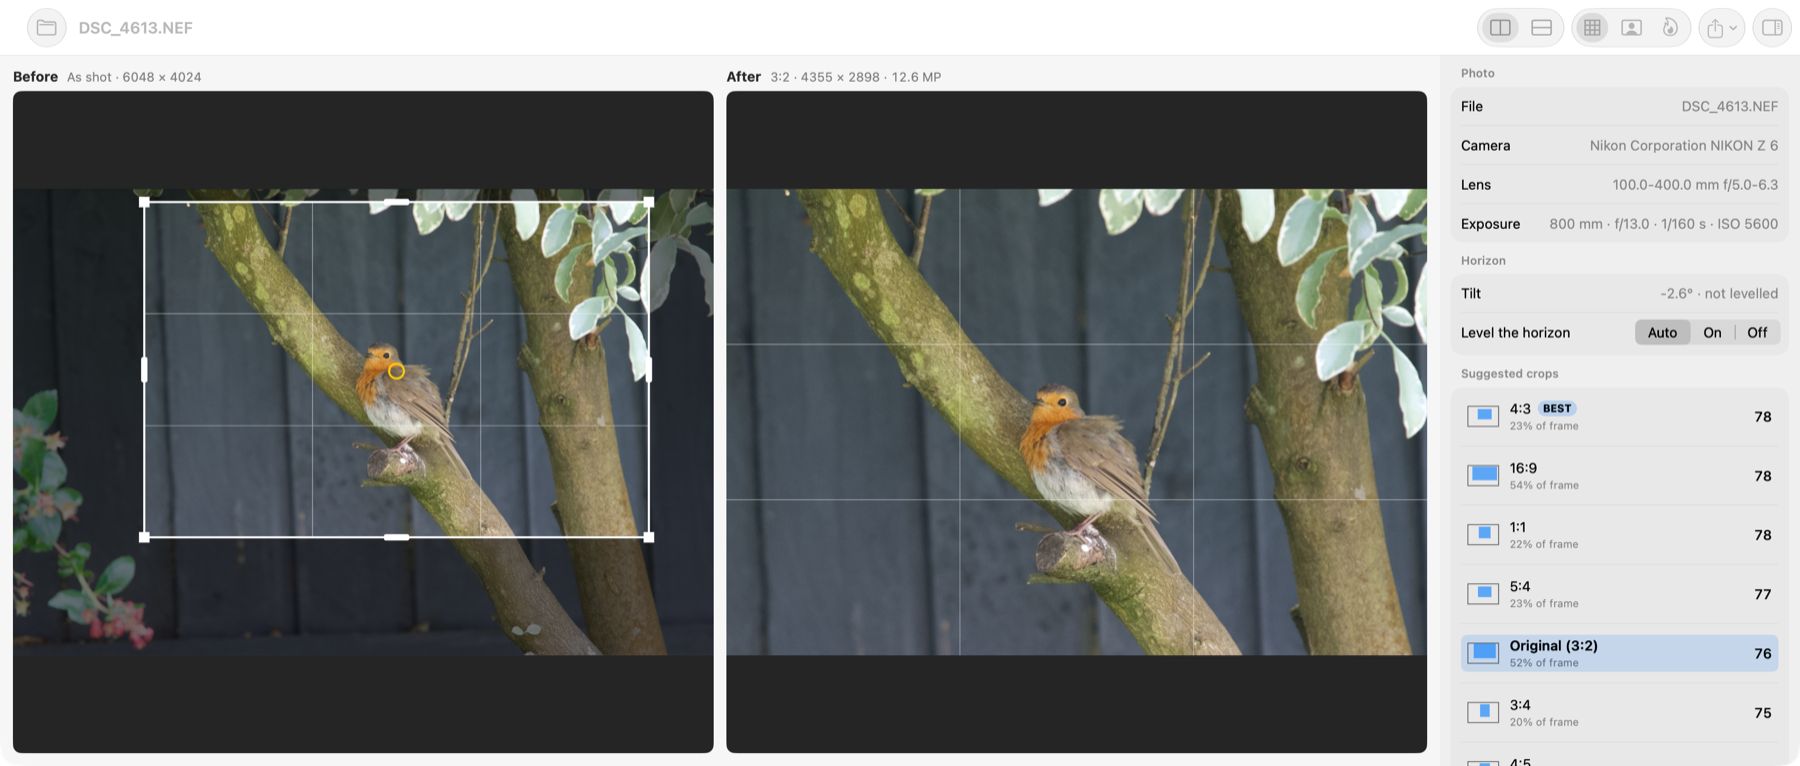
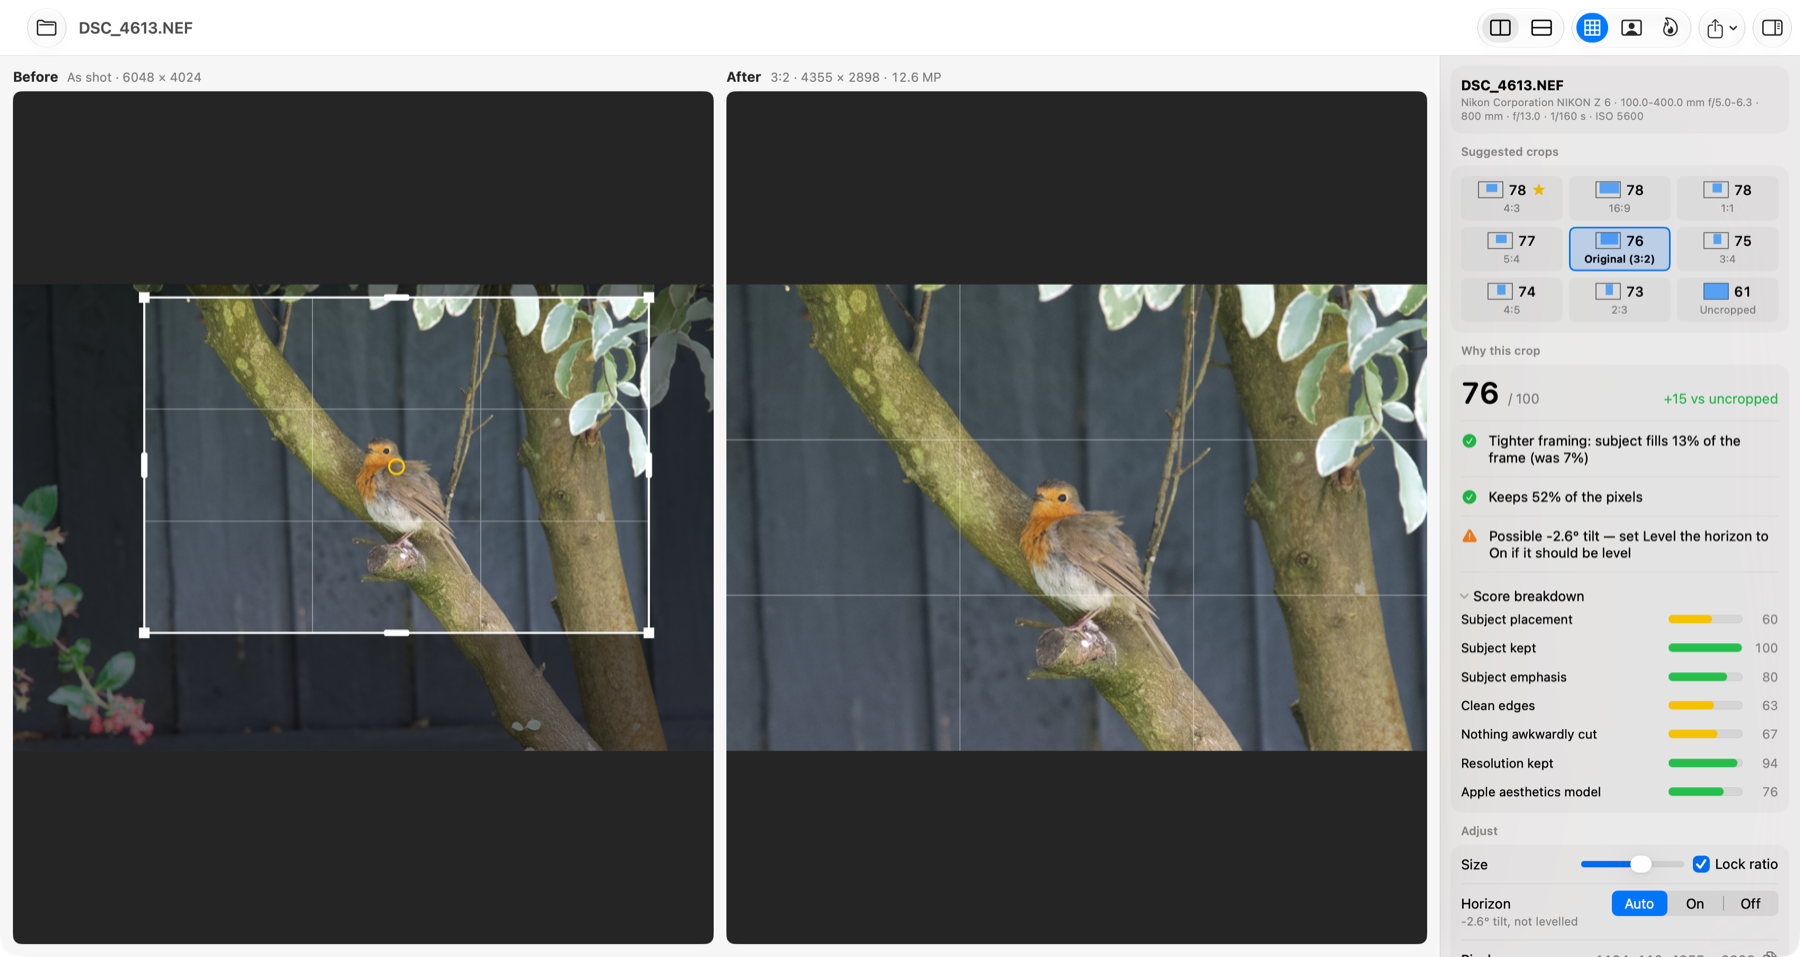
Compact the advice sidebar so it fits on screen
Suggested crops become a 3x3 grid of tiles, the photo details a two-line
header, and the horizon and pixel box single rows in Adjust. Help text moves
into tooltips and Export shares a row with Update PhotoLab Crop. The score
breakdown is one line per guideline and can be collapsed. Screenshots are
retaken, and --snapshot gains --no-breakdown.

diff --git a/Sources/CropAdvisor/InspectorView.swift b/Sources/CropAdvisor/InspectorView.swift
@@ -7,29 +7,24 @@ struct InspectorView: View {
         @Bindable var model = model
         if let result = model.result {
             Form {
-                Section("Photo") {
-                    LabeledContent("File", value: result.url.lastPathComponent)
-                    if let camera = result.metadata.camera { LabeledContent("Camera", value: camera) }
-                    if let lens = result.metadata.lens { LabeledContent("Lens", value: lens) }
-                    if let exposure = result.metadata.exposure { LabeledContent("Exposure", value: exposure) }
-                }
-
-                Section("Horizon") {
-                    horizonRow(result.scene)
-                    Picker("Level the horizon", selection: $model.level) {
-                        ForEach(LevelMode.allCases, id: \.self) { Text($0.rawValue).tag($0) }
+                Section {
+                    VStack(alignment: .leading, spacing: 2) {
+                        Text(result.url.lastPathComponent).font(.headline)
+                        let details = [result.metadata.camera, result.metadata.lens, result.metadata.exposure].compactMap { $0 }
+                        if !details.isEmpty {
+                            Text(details.joined(separator: " · ")).font(.caption).foregroundStyle(.secondary)
+                        }
                     }
-                    .pickerStyle(.segmented)
-                    .disabled(!canStraighten(result.scene))
                 }
 
                 Section("Suggested crops") {
-                    ForEach(result.suggestions) { suggestion in
-                        SuggestionRow(suggestion: suggestion,
-                                      isBest: suggestion.id == result.suggestions.first?.id,
-                                      isSelected: suggestion.id == model.selectedID)
-                            .contentShape(Rectangle())
-                            .onTapGesture { model.select(suggestion) }
+                    LazyVGrid(columns: Array(repeating: GridItem(.flexible(), spacing: 6), count: 3), spacing: 6) {
+                        ForEach(result.suggestions) { suggestion in
+                            SuggestionTile(suggestion: suggestion,
+                                           isBest: suggestion.id == result.suggestions.first?.id,
+                                           isSelected: suggestion.id == model.selectedID)
+                                .onTapGesture { model.select(suggestion) }
+                        }
                     }
                 }
 
@@ -46,53 +41,66 @@ struct InspectorView: View {
                                 Text(Image(systemName: "exclamationmark.triangle.fill")).foregroundStyle(.orange)
                             }
                         }
-                    }
-
-                    if let px = model.cropPixelRect {
-                        Section("Crop box (pixels)") {
-                            CropBoxRows(rect: px, rotation: result.scene.appliedRotation)
-                        }
-                    }
-
-                    Section("Score breakdown") {
-                        ForEach(Criterion.allCases) { criterion in
-                            if let value = score.criteria[criterion] {
-                                CriterionBar(name: criterion.rawValue, value: value)
+                        DisclosureGroup("Score breakdown", isExpanded: $model.showBreakdown) {
+                            ForEach(Criterion.allCases) { criterion in
+                                if let value = score.criteria[criterion] {
+                                    CriterionBar(name: criterion.rawValue, value: value)
+                                }
                             }
-                        }
-                        if let a = score.aesthetic {
-                            CriterionBar(name: "Apple aesthetics model", value: a)
+                            if let a = score.aesthetic {
+                                CriterionBar(name: "Apple aesthetics model", value: a)
+                            }
                         }
                     }
                 }
 
                 Section("Adjust") {
-                    LabeledContent("Crop size") {
+                    HStack {
+                        Text("Size")
                         Slider(value: Binding(get: { model.cropScale }, set: { model.setCropScale($0) }),
                                in: 0.3...1) { editing in
                             if !editing { model.refreshAesthetic() }
                         }
+                        Toggle("Lock ratio", isOn: $model.lockAspect).toggleStyle(.checkbox)
                     }
-                    Toggle("Lock aspect ratio", isOn: $model.lockAspect)
-                    Text("In the Before view, drag inside the crop to move it, or drag a corner or edge to resize it (hold ⇧ to toggle the aspect lock). Scores update live.")
-                        .font(.caption).foregroundStyle(.secondary)
+                    .help("In the Before view, drag inside the crop to move it, or drag a corner or edge to resize it (hold ⇧ to toggle the aspect lock). Scores update live.")
+                    LabeledContent {
+                        Picker("Level the horizon", selection: $model.level) {
+                            ForEach(LevelMode.allCases, id: \.self) { Text($0.rawValue).tag($0) }
+                        }
+                        .pickerStyle(.segmented)
+                        .labelsHidden()
+                        .fixedSize()
+                        .disabled(!canStraighten(result.scene))
+                    } label: {
+                        Text("Horizon")
+                        Text(horizonStatus(result.scene))
+                    }
+                    .help("Level the horizon: Auto levels scenes that look like landscapes")
+                    if let px = model.cropPixelRect {
+                        CropBoxRow(rect: px, rotation: result.scene.appliedRotation)
+                    }
                     if model.isAdjusted {
                         Button("Reset to Suggestion") { model.resetToSuggestion() }
                     }
                 }
 
                 Section {
-                    Menu("Export Cropped Photo") {
-                        ForEach(ExportFormat.allCases, id: \.self) { format in
-                            Button(format.rawValue) { model.export(format) }
+                    HStack {
+                        Menu("Export") {
+                            ForEach(ExportFormat.allCases, id: \.self) { format in
+                                Button(format.rawValue) { model.export(format) }
+                            }
+                        }
+                        .fixedSize()
+                        .help("Re-develops the RAW at full resolution and keeps the camera metadata. The NEF itself is never modified.")
+                        Spacer()
+                        if let sidecar = model.sidecar {
+                            PhotoLabNotes(sidecar: sidecar, result: result)
+                            Button("Update PhotoLab Crop") { model.updateSidecar() }
+                                .help("Writes this crop\(result.scene.appliedRotation != 0 ? " and the horizon levelling" : "") into \(sidecar.url.lastPathComponent), replacing PhotoLab’s crop and horizon settings. The original sidecar is kept as a .bak file.")
                         }
                     }
-                    Text("Re-develops the RAW at full resolution and keeps the camera metadata. The NEF itself is never modified.")
-                        .font(.caption).foregroundStyle(.secondary)
-                }
-
-                if let sidecar = model.sidecar {
-                    PhotoLabSection(sidecar: sidecar, result: result)
                 }
             }
             .formStyle(.grouped)
@@ -107,26 +115,18 @@ struct InspectorView: View {
         return Pipeline.straightenRange.contains(abs(Double(a)) * 180 / .pi)
     }
 
-    @ViewBuilder
-    private func horizonRow(_ scene: SceneAnalysis) -> some View {
-        if let a = scene.detectedHorizonAngle {
-            let degrees = Double(a) * 180 / .pi
-            if abs(degrees) < Pipeline.straightenRange.lowerBound {
-                LabeledContent("Tilt", value: "Level")
-            } else if abs(degrees) > Pipeline.straightenRange.upperBound {
-                LabeledContent("Tilt", value: String(format: "%.1f° (looks intentional)", degrees))
-            } else {
-                LabeledContent("Tilt", value: String(format: scene.appliedRotation != 0 ? "%.1f° · levelled" : "%.1f° · not levelled", degrees))
-            }
-        } else {
-            LabeledContent("Tilt", value: "No horizon found")
-        }
+    private func horizonStatus(_ scene: SceneAnalysis) -> String {
+        guard let a = scene.detectedHorizonAngle else { return "No horizon found" }
+        let degrees = Double(a) * 180 / .pi
+        if abs(degrees) < Pipeline.straightenRange.lowerBound { return "Level" }
+        if abs(degrees) > Pipeline.straightenRange.upperBound { return String(format: "%.1f° tilt, looks intentional", degrees) }
+        return String(format: scene.appliedRotation != 0 ? "%.1f° tilt, levelled" : "%.1f° tilt, not levelled", degrees)
     }
 
     private func scoreHeader(_ score: CropScore) -> some View {
         HStack(alignment: .firstTextBaseline) {
             Text("\(Int((score.total * 100).rounded()))")
-                .font(.system(size: 34, weight: .semibold, design: .rounded))
+                .font(.system(size: 28, weight: .semibold, design: .rounded))
                 .monospacedDigit()
             Text("/ 100").foregroundStyle(.secondary)
             Spacer()
@@ -139,34 +139,44 @@ struct InspectorView: View {
     }
 }
 
-private struct SuggestionRow: View {
+/// One suggested crop in the grid: its shape, score and name, with a star on the best.
+private struct SuggestionTile: View {
     let suggestion: CropSuggestion
     let isBest: Bool
     let isSelected: Bool
 
     var body: some View {
-        HStack(spacing: 10) {
-            AspectGlyph(rect: suggestion.rect)
-            VStack(alignment: .leading, spacing: 2) {
-                HStack(spacing: 6) {
-                    Text(suggestion.aspectLabel).fontWeight(isSelected ? .semibold : .regular)
-                    if isBest {
-                        Text(suggestion.isUncropped ? "ALREADY STRONG" : "BEST")
-                            .font(.caption2.weight(.bold))
-                            .padding(.horizontal, 5).padding(.vertical, 1)
-                            .background(Color.accentColor.opacity(0.2), in: Capsule())
-                    }
+        VStack(spacing: 3) {
+            HStack(spacing: 5) {
+                AspectGlyph(rect: suggestion.rect)
+                Text("\(Int((suggestion.score.total * 100).rounded()))")
+                    .font(.body.monospacedDigit().weight(.medium))
+                if isBest {
+                    Text(Image(systemName: "star.fill")).font(.caption2).foregroundStyle(.yellow)
                 }
-                Text(String(format: "%.0f%% of frame", suggestion.rect.area * 100))
-                    .font(.caption).foregroundStyle(.secondary)
             }
-            Spacer()
-            Text("\(Int((suggestion.score.total * 100).rounded()))")
-                .font(.body.monospacedDigit().weight(.medium))
+            Text(suggestion.aspectLabel)
+                .font(.caption)
+                .fontWeight(isSelected ? .semibold : .regular)
+                .foregroundStyle(isSelected ? .primary : .secondary)
+                .lineLimit(1)
+                .minimumScaleFactor(0.8)
         }
-        .padding(.vertical, 2)
-        .padding(.horizontal, 6)
-        .background(isSelected ? Color.accentColor.opacity(0.15) : .clear, in: RoundedRectangle(cornerRadius: 6))
+        .frame(maxWidth: .infinity)
+        .padding(.vertical, 5)
+        .background(isSelected ? Color.accentColor.opacity(0.18) : Color.primary.opacity(0.04),
+                    in: RoundedRectangle(cornerRadius: 6))
+        .overlay {
+            if isSelected { RoundedRectangle(cornerRadius: 6).strokeBorder(Color.accentColor, lineWidth: 1.5) }
+        }
+        .contentShape(Rectangle())
+        .help(help)
+    }
+
+    private var help: String {
+        var text = String(format: "%@ · %.0f%% of frame", suggestion.aspectLabel, suggestion.rect.area * 100)
+        if isBest { text += suggestion.isUncropped ? " · Already strong uncropped" : " · Best" }
+        return text
     }
 }
 
@@ -182,7 +192,7 @@ private struct AspectGlyph: View {
                            width: rect.width * frame.width, height: rect.height * frame.height)
             ctx.fill(Path(r), with: .color(.accentColor.opacity(0.6)))
         }
-        .frame(width: 30, height: 20)
+        .frame(width: 24, height: 16)
     }
 }
 
@@ -191,34 +201,30 @@ private struct CriterionBar: View {
     let value: Double
 
     var body: some View {
-        VStack(alignment: .leading, spacing: 3) {
-            HStack {
-                Text(name).font(.callout)
-                Spacer()
-                Text("\(Int((value * 100).rounded()))").font(.callout.monospacedDigit()).foregroundStyle(.secondary)
-            }
+        HStack(spacing: 8) {
+            Text(name).font(.callout)
+            Spacer()
             ProgressView(value: value)
+                .frame(width: 70)
                 .tint(value > 0.7 ? .green : (value > 0.4 ? .yellow : .orange))
+            Text("\(Int((value * 100).rounded()))")
+                .font(.callout.monospacedDigit()).foregroundStyle(.secondary)
+                .frame(width: 26, alignment: .trailing)
         }
     }
 }
 
-/// Writes the crop into the photo's DxO PhotoLab sidecar.
-private struct PhotoLabSection: View {
-    @Environment(AppModel.self) private var model
+/// Caveats about writing the crop into the photo's DxO PhotoLab sidecar, as a warning icon
+/// whose tooltip lists them.
+private struct PhotoLabNotes: View {
     let sidecar: DxOSidecar
     let result: AnalysisResult
 
     var body: some View {
-        Section("DxO PhotoLab") {
-            Button("Update PhotoLab Crop") { model.updateSidecar() }
-            Text("Writes this crop\(result.scene.appliedRotation != 0 ? " and the horizon levelling" : "") into \(sidecar.url.lastPathComponent), replacing PhotoLab’s crop and horizon settings. The original sidecar is kept as a .bak file.")
-                .font(.caption).foregroundStyle(.secondary)
-            ForEach(notes, id: \.self) { note in
-                Label { Text(note).font(.caption) } icon: {
-                    Text(Image(systemName: "exclamationmark.triangle.fill")).foregroundStyle(.orange)
-                }
-            }
+        if !notes.isEmpty {
+            Text(Image(systemName: "exclamationmark.triangle.fill"))
+                .foregroundStyle(.orange)
+                .help(notes.joined(separator: "\n"))
         }
     }
 
@@ -240,32 +246,40 @@ private struct PhotoLabSection: View {
 }
 
 /// The selected crop as a pixel bounding box in the full-resolution image.
-private struct CropBoxRows: View {
+private struct CropBoxRow: View {
     let rect: CGRect
     let rotation: CGFloat
 
     var body: some View {
-        Group {
-            LabeledContent("Top-left", value: "\(Int(rect.minX)), \(Int(rect.minY))")
-            LabeledContent("Bottom-right", value: "\(Int(rect.maxX)), \(Int(rect.maxY))")
-            LabeledContent("Size", value: "\(Int(rect.width)) × \(Int(rect.height))")
-        }
-        .monospacedDigit()
-        .textSelection(.enabled)
-
-        HStack {
+        LabeledContent {
+            HStack(spacing: 6) {
+                Text(verbatim: "\(Int(rect.minX)), \(Int(rect.minY))  \(Int(rect.width)) × \(Int(rect.height))")
+                    .monospacedDigit()
+                    .lineLimit(1)
+                    .fixedSize()
+                    .textSelection(.enabled)
+                    .help("Top-left corner, then width × height. Bottom-right is \(Int(rect.maxX)), \(Int(rect.maxY)).")
+                copyButton
+            }
+        } label: {
+            Text("Pixels")
             if rotation != 0 {
-                Text(String(format: "In the levelled image (rotated %.1f°)", rotation * 180 / .pi))
-                    .font(.caption).foregroundStyle(.secondary)
+                Text(String(format: "Levelled %.1f°", rotation * 180 / .pi))
             }
-            Spacer()
-            Button("Copy") {
-                NSPasteboard.general.clearContents()
-                NSPasteboard.general.setString(
-                    "x=\(Int(rect.minX)) y=\(Int(rect.minY)) width=\(Int(rect.width)) height=\(Int(rect.height))",
-                    forType: .string)
-            }
-            .help("Copy x, y, width and height")
         }
+        .help(rotation != 0 ? "Coordinates in the levelled image" : "")
+    }
+
+    private var copyButton: some View {
+        Button {
+            NSPasteboard.general.clearContents()
+            NSPasteboard.general.setString(
+                "x=\(Int(rect.minX)) y=\(Int(rect.minY)) width=\(Int(rect.width)) height=\(Int(rect.height))",
+                forType: .string)
+        } label: {
+            Text(Image(systemName: "doc.on.doc"))
+        }
+        .buttonStyle(.borderless)
+        .help("Copy x, y, width and height")
     }
 }

diff --git a/Sources/CropAdvisor/Snapshot.swift b/Sources/CropAdvisor/Snapshot.swift
@@ -1,7 +1,7 @@
 import AppKit
 import SwiftUI
 
-/// `CropAdvisor --snapshot <photo> <out.png> [--stacked] [--detections] [--heatmap]`
+/// `CropAdvisor --snapshot <photo> <out.png> [--stacked] [--detections] [--heatmap] [--no-breakdown]`
 /// renders the main window offscreen, for checking the UI without screen recording rights.
 @MainActor
 enum Snapshot {
@@ -18,6 +18,7 @@ enum Snapshot {
         model.stacked = args.contains("--stacked")
         model.showDetections = args.contains("--detections")
         model.showHeatmap = args.contains("--heatmap")
+        model.showBreakdown = !args.contains("--no-breakdown")
         let host = NSHostingView(rootView: NavigationStack { ContentView() }.environment(model))
         let started = Date()
         let window = SnapshotWindow(contentRect: CGRect(x: 0, y: 0, width: CGFloat(Int(ProcessInfo.processInfo.environment["SNAP_WIDTH"] ?? "") ?? 1400), height: CGFloat(Int(ProcessInfo.processInfo.environment["SNAP_HEIGHT"] ?? "") ?? 820)),

diff --git a/Sources/CropAdvisor/AppModel.swift b/Sources/CropAdvisor/AppModel.swift
@@ -31,6 +31,7 @@ final class AppModel {
     var showHeatmap = false
     var stacked = false
     var lockAspect = true
+    var showBreakdown = true
 
     // Transient view state, kept here because the Command Line Tools SDK lacks
     // the compiler plugin for SwiftUI's @State macro.

diff --git a/README.md b/README.md
@@ -177,12 +177,12 @@ change the geometry a little.
 
 ```sh
 build/CropAdvisor --analyze photo.NEF [--level auto|on|off] [--export best.jpg] [--dop]
-build/CropAdvisor --snapshot photo.NEF ui.png [--detections] [--heatmap] [--stacked]
+build/CropAdvisor --snapshot photo.NEF ui.png [--detections] [--heatmap] [--stacked] [--no-breakdown]
 ```
 
 `--dop` writes the camera-ratio suggestion into the photo's PhotoLab sidecar, as the app does by
 default. `--snapshot` renders the window to a PNG; it is how the screenshots above were made, e.g.
-`SNAP_WIDTH=1700 SNAP_HEIGHT=640 build/CropAdvisor --snapshot photo.NEF main.png`, then
+`SNAP_WIDTH=1700 SNAP_HEIGHT=820 build/CropAdvisor --snapshot photo.NEF main.png`, then
 `sips -Z 1800 main.png`.
 
 ## Source layout
